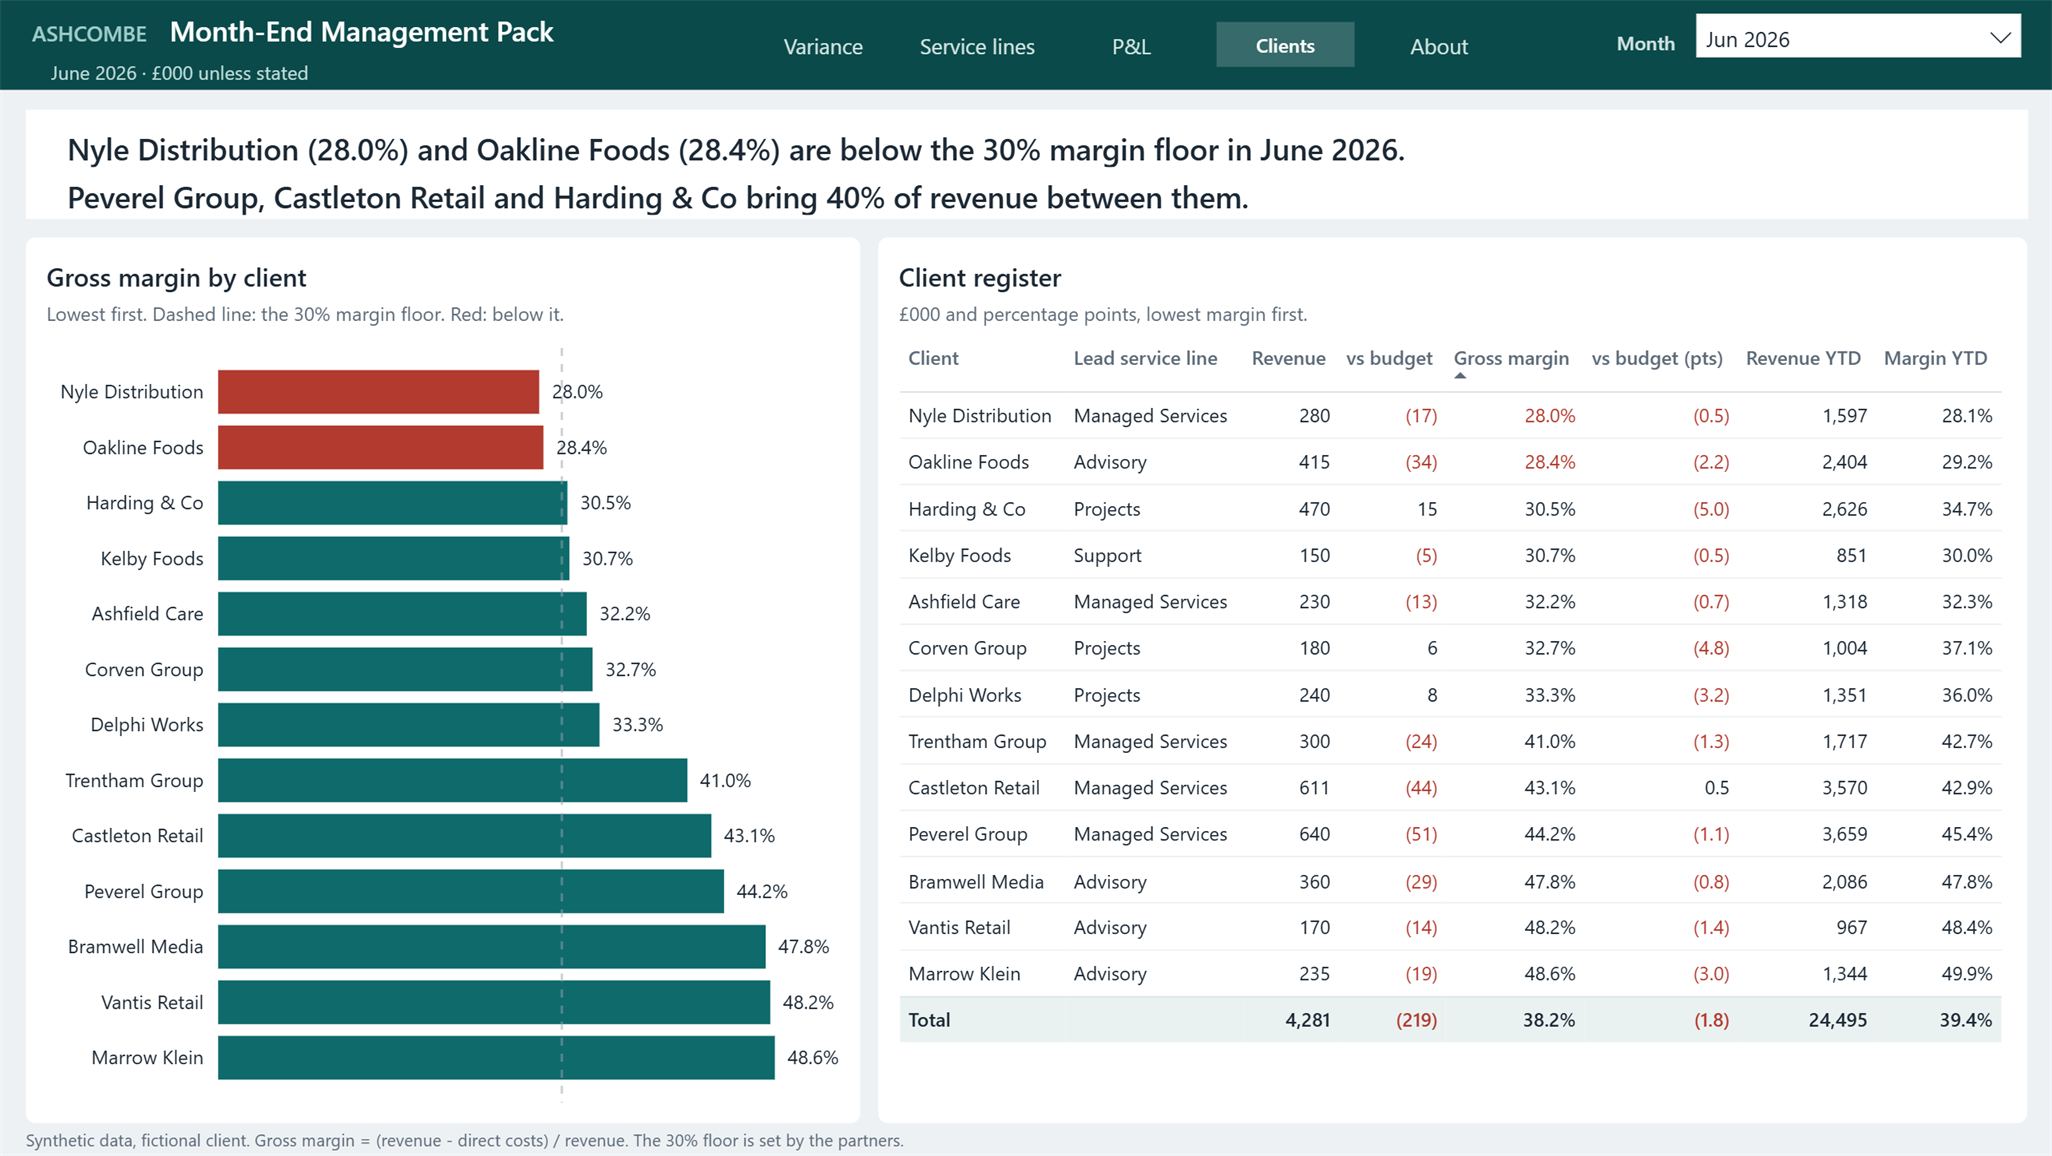
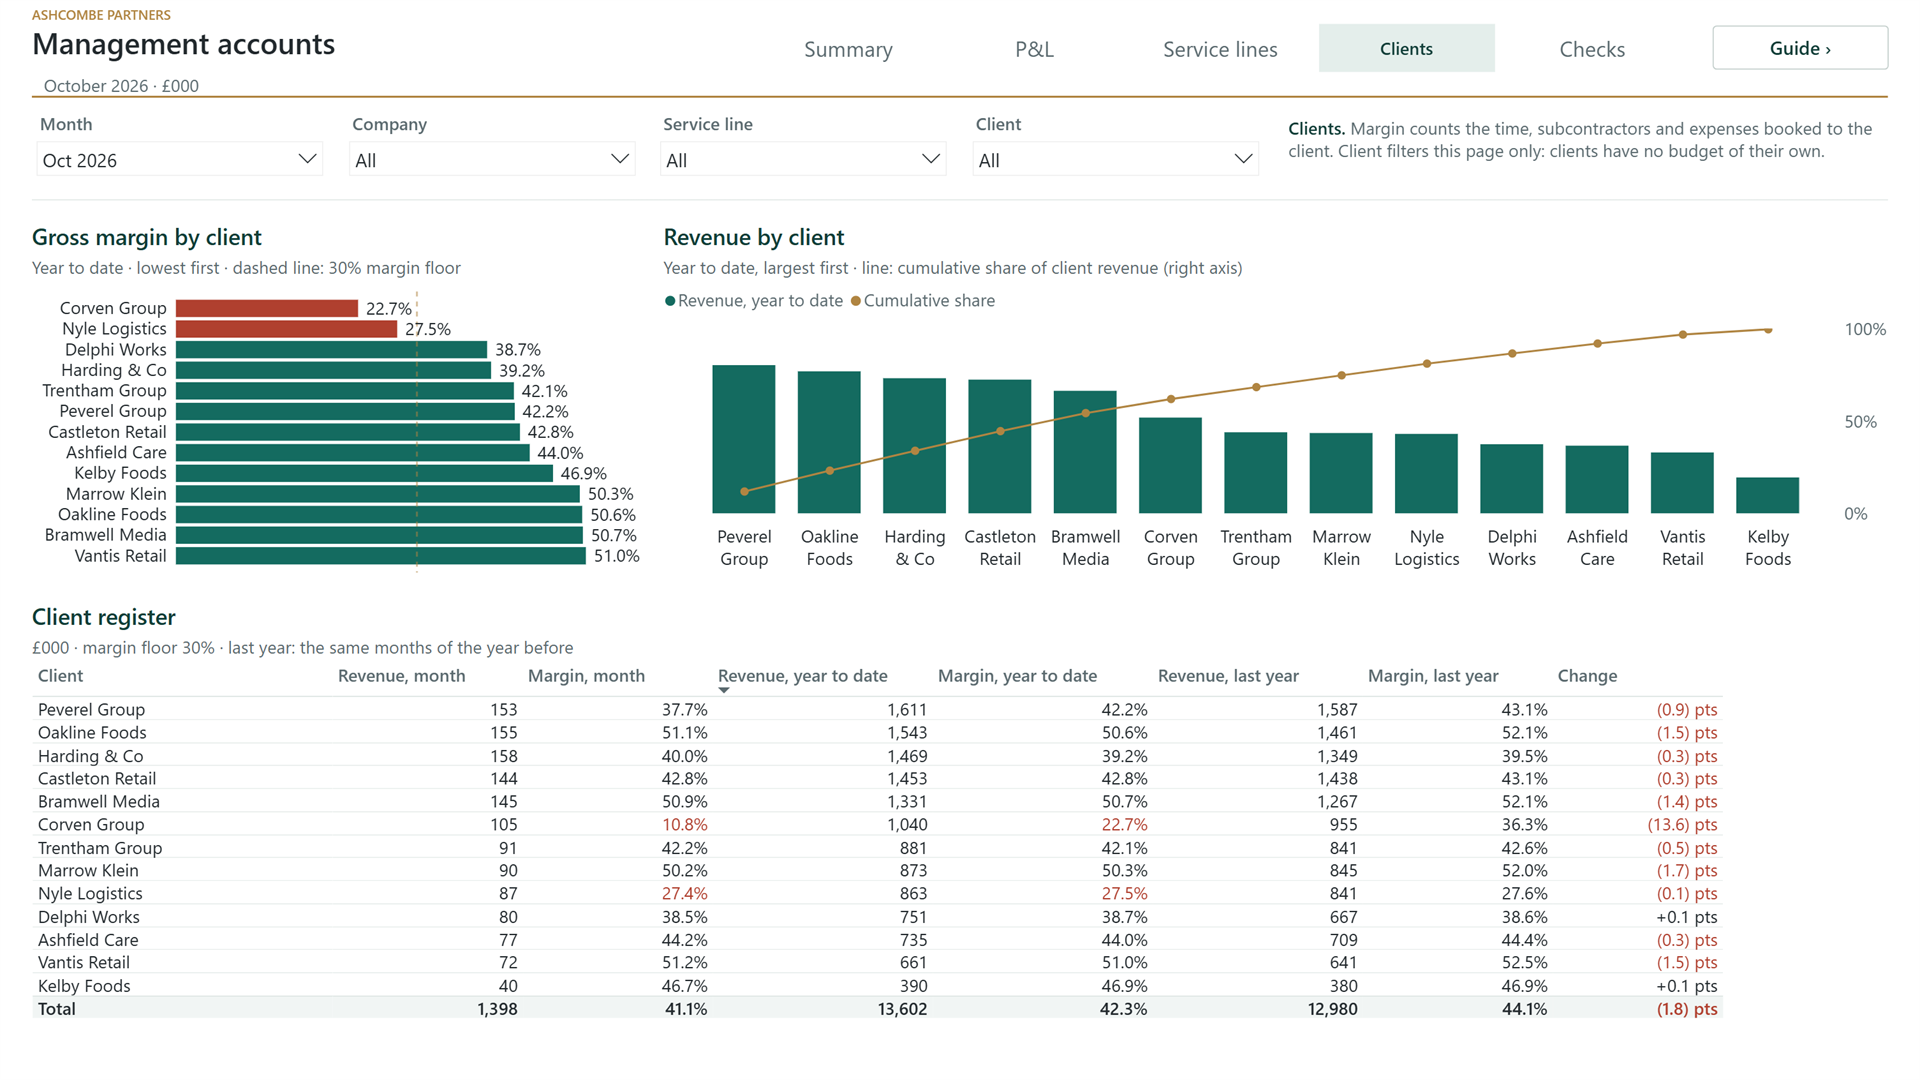
Rewrite the month-end README and replace the screenshots

diff --git a/month-end-management-pack/README.md b/month-end-management-pack/README.md
@@ -1,40 +1,48 @@
 # Month-End Management Pack
 
-A month-end pack for a professional-services firm with three companies, four service lines and 13 clients, built for the close meeting. The meeting starts with one question: why is profit different from budget? The pack answers it on the first page, separates volume from price, and lists the points the meeting should discuss. The other pages hold the trends, the full P&L and the client view.
+A monthly management pack that tells the partners why profit differs from budget, and checks itself against the ledger before it goes out.
 
 Synthetic data, fictional client (Ashcombe Partners).
 
-![Variance page](screenshots/1-variance.png)
+![Summary page](screenshots/1-summary.png)
 
-## What it shows (June 2026)
+## The problem
 
-- Operating profit was £612k against a £720k budget. Revenue was £219k short and £206k of that was billable hours.
-- Managed Services lost 420 hours. Its utilisation has fallen every month this year, from 80.6% in January to 75.0%, so this is a resourcing question more than a sales one.
-- Projects' gross margin was 31.7% against 36.1%, with subcontractors £56k over budget. Advisory billed £472 an hour against a £486 rate card.
-- Two clients are below the 30% margin floor, Nyle Distribution and Oakline Foods.
-- Overheads were £57k under budget, which softened the month, though admin staff costs have risen every month this year.
+Ashcombe Partners runs four service lines across three companies. The monthly pack was assembled in Excel from ledger exports, so the close meeting spent its time agreeing the numbers rather than explaining them. The partners wanted one answer at the start of every close: why is profit different from budget, and what do we do about it?
 
-Year to date, operating profit is £270k behind budget.
+## What it showed (October 2026)
+
+- **The shortfall is billable time, not capacity.** Operating profit was £206k against a budget of £267k. Available hours were on plan, but Managed Services lost £39k of billable time: its utilisation has fallen every month since January, to 75.8% against an 82% target. The answer is resourcing in that line, not hiring.
+- **Price and subcontractors take the rest.** Advisory is still billing at 2025 rates, £20k below its rate card this month and £158k over the year. Projects lost gross margin to subcontractors, 22.7% against 28.6%, and Corven Group, at 10.8%, sits with Nyle Logistics below the 30% margin floor. Both clients need a pricing review.
+- **The pack proves itself before it goes out.** The ledger agrees with the trial balance to the penny once seven lines loaded twice by the extract are removed. Two items are left for finance to confirm: £8.4k of revenue posted with no client, and a laptop lease posted as a credit that flatters overheads.
 
 ## Pages
 
-Variance, Service lines, P&L, Clients and About. One Month dropdown drives every page. The two trend charts on Service lines always show all 18 months.
+Summary, P&L, Service lines, Clients and Checks, with Month, Company and Service line filters at the top of every page. Right-click any line of the P&L for the journal lines behind it. The Guide button explains how to read the pack.
 
-![Service lines page](screenshots/2-service-lines.png)
+![Checks page](screenshots/5-checks.png)
 
 ## How it is built
 
-- The budget is flexed: 82% utilisation and the rate card applied to the hours each team actually had. What is left of the revenue variance splits into an hours effect and a rate effect, worked out by service line and month so that a shift towards cheaper work does not read as discounting.
-- Amounts are stored as profit contributions, revenue positive and costs negative, so a positive variance is favourable on every line.
-- The P&L layout comes from a small `P&L Line` table and one measure, so subtotals and margins sit where an accountant expects them.
-- The headlines, chart titles and the points for the meeting are measures, with a £5k threshold so the meeting is not given noise.
-- Power Query removes a journal batch exported twice, cleans hand-typed client names and makes every cost negative, which fixes one posted with the wrong sign. Depreciation has no budget line, and the P&L shows that instead of a variance percentage.
+```mermaid
+flowchart LR
+  A[Ledger and timesheets: SQL Server views] --> C[Power Query]
+  B[Budget and commentary: Excel workbooks] --> C
+  C --> D[Star schema, calculation group for the period]
+  D --> E[Report]
+```
 
-The figures above were recalculated from the CSVs outside Power BI and match the report.
+- **The views do the cleaning.** SQL views hand the model one row per journal line, amounts with their effect on profit and a client for every line. Power Query stays thin and folds back to the server; only the finance workbooks are shaped in Power Query.
+- **The revenue variance splits three ways, exactly.** Capacity, billable hours and billing rates are valued so that they add up to the revenue variance to the pound, so leave and vacancies never show as lost sales.
+- **The period is set in one place.** A calculation group gives every measure its month, year to date and last-year versions, and the statement is read from a layout table, so its logic is written once.
+
+The files carry the problems real extracts do: a batch of purchase invoices loaded twice, manual journals with no client, a cost posted as a credit, depreciation with no budget line, and an account code typed with a trailing space. The Checks page counts each one.
+
+Every figure above was recalculated from the CSV files outside Power BI and matches the report.
 
 ## Opening it
 
-1. Open `Month-End Management Pack.pbip` in Power BI Desktop.
-2. In Transform data, set `Data Folder` to this project's [`data`](data/) folder and refresh.
+1. Build the database: `sql\build.cmd` creates `AshcombeFinance` on SQL Server on localhost. For another server, pass its name, for example `sql\build.cmd (localdb)\MSSQLLocalDB`.
+2. Open `Month-End Management Pack.pbip` in Power BI Desktop. In Transform data, set `Server` and `Database` to match, set `Finance Folder` to this project's [`finance`](finance/) folder, and refresh. Use Windows credentials for SQL Server.
 
-`node generator/generate-data.js` rebuilds the CSVs. See [`generator/`](generator/).
+`node generator/generate-data.js` rebuilds the data, and `generator/build-workbooks.ps1` the workbooks. See [`generator/`](generator/).

diff --git a/month-end-management-pack/generator/README.md b/month-end-management-pack/generator/README.md
@@ -1,23 +1,24 @@
 # Data generator
 
-Writes the CSVs in [`../data`](../data/) for the Month-End Management Pack.
+Writes the files the Month-End Management Pack is built from: the ledger extract, trial balance, timesheet hours and reference lists in [`../data`](../data/), and the contents of the finance workbooks in [`workbooks`](workbooks/).
 
 ```
 node generate-data.js
+powershell -File build-workbooks.ps1
 ```
 
-No dependencies. The random numbers are seeded, so every run writes the same files. The script ends with a summary of revenue, operating profit, margin and utilisation by month, the June hours and rate effects, and client margins.
+The first script has no dependencies. The random numbers are seeded, so every run writes the same files, and it ends with a summary of the figures the report should show. The second needs Excel: it writes `Budget 2025.xlsx`, `Budget 2026.xlsx` and `Close commentary.xlsx` in [`../finance`](../finance/) from the CSV files in `workbooks`, which are there so the budgets can also be read without Excel.
 
 | File | Rows |
 |---|---|
-| `calendar.csv` | 18 months, January 2025 to June 2026 |
-| `entity.csv` | 3 |
-| `service_line.csv` | 5, including Central for overheads |
-| `account.csv` | 14 |
-| `client.csv` | 13 |
-| `ledger.csv` | 3,012, of which 6 are duplicates |
-| `capacity.csv` | 144 |
+| `journal_lines.csv` | 2,629: 2,622 journal lines, 7 of them loaded twice |
+| `trial_balance.csv` | 704, the monthly movement per company and account |
+| `hours.csv` | 88, available and billable hours per month, company and service line |
+| `accounts.csv`, `clients.csv`, `entities.csv`, `service_lines.csv` | 14, 13, 3 and 5 |
+| `workbooks/budget_2025.csv`, `budget_2026.csv` | 32 each, months across, costs as positive amounts |
+| `workbooks/assumptions_2025.csv`, `assumptions_2026.csv` | 4 each: rate card, target utilisation and planned hours |
+| `workbooks/commentary.csv` | 13, the finance director's notes for August to October 2026 |
 
-Each month is built from operating drivers: available hours from working days and leave, utilisation, billing rates against the rate card, staff cost per hour, and subcontractors and expenses as a share of revenue. The budget applies 82% utilisation and the rate card to the same available hours. June 2026 is pinned to fixed figures.
+Actuals run from January 2025 to October 2026. Each month is built from operating drivers: available hours from working days and leave, utilisation, client billing rates, staff cost per hour, and subcontractors and expenses as a share of revenue. The budget applies 82% utilisation and the rate card to the planned hours.
 
-Problems planted on purpose: a June journal batch exported twice, ten client names with stray spaces or capitals, overheads with no client, one delivery staff cost posted with the wrong sign, and depreciation with actuals but no budget line.
+Problems planted on purpose: the purchase invoices of 23 October 2026 loaded again by the extract three days later, manual journals on revenue with no client, a laptop lease posted as a credit, depreciation with actuals but no budget line, and an account code typed with a trailing space in the 2026 workbook.

diff --git a/README.md b/README.md
@@ -10,9 +10,8 @@ The clients are fictional and the data is synthetic, written by the generator sc
 | [Month-End Management Pack](month-end-management-pack/) | Finance director and partners | Why is profit different from budget this month? |
 | [Data Reconciliation Monitor](data-reconciliation-monitor/) | The business each morning, and the data team | Can we use today's numbers? |
 
-Each project holds the PBIP files, the CSV data, the generator, and a README on what the report shows and how it is built.
+Each project holds the PBIP files, its source data, the generator, and a README on what the report shows and how it is built.
 
 ## Opening a project
 
-1. Open the `.pbip` file in Power BI Desktop.
-2. In Transform data, set the `Data Folder` parameter to the project's `data` folder, then refresh.
+Each project's README says how to open it. In short: open the `.pbip` file in Power BI Desktop, point the parameters in Transform data at the project's sources, then refresh. Site Inspection Performance reads a folder of CSV files; the Month-End Management Pack reads a SQL Server database built by the scripts in its `sql` folder, plus Excel workbooks.
